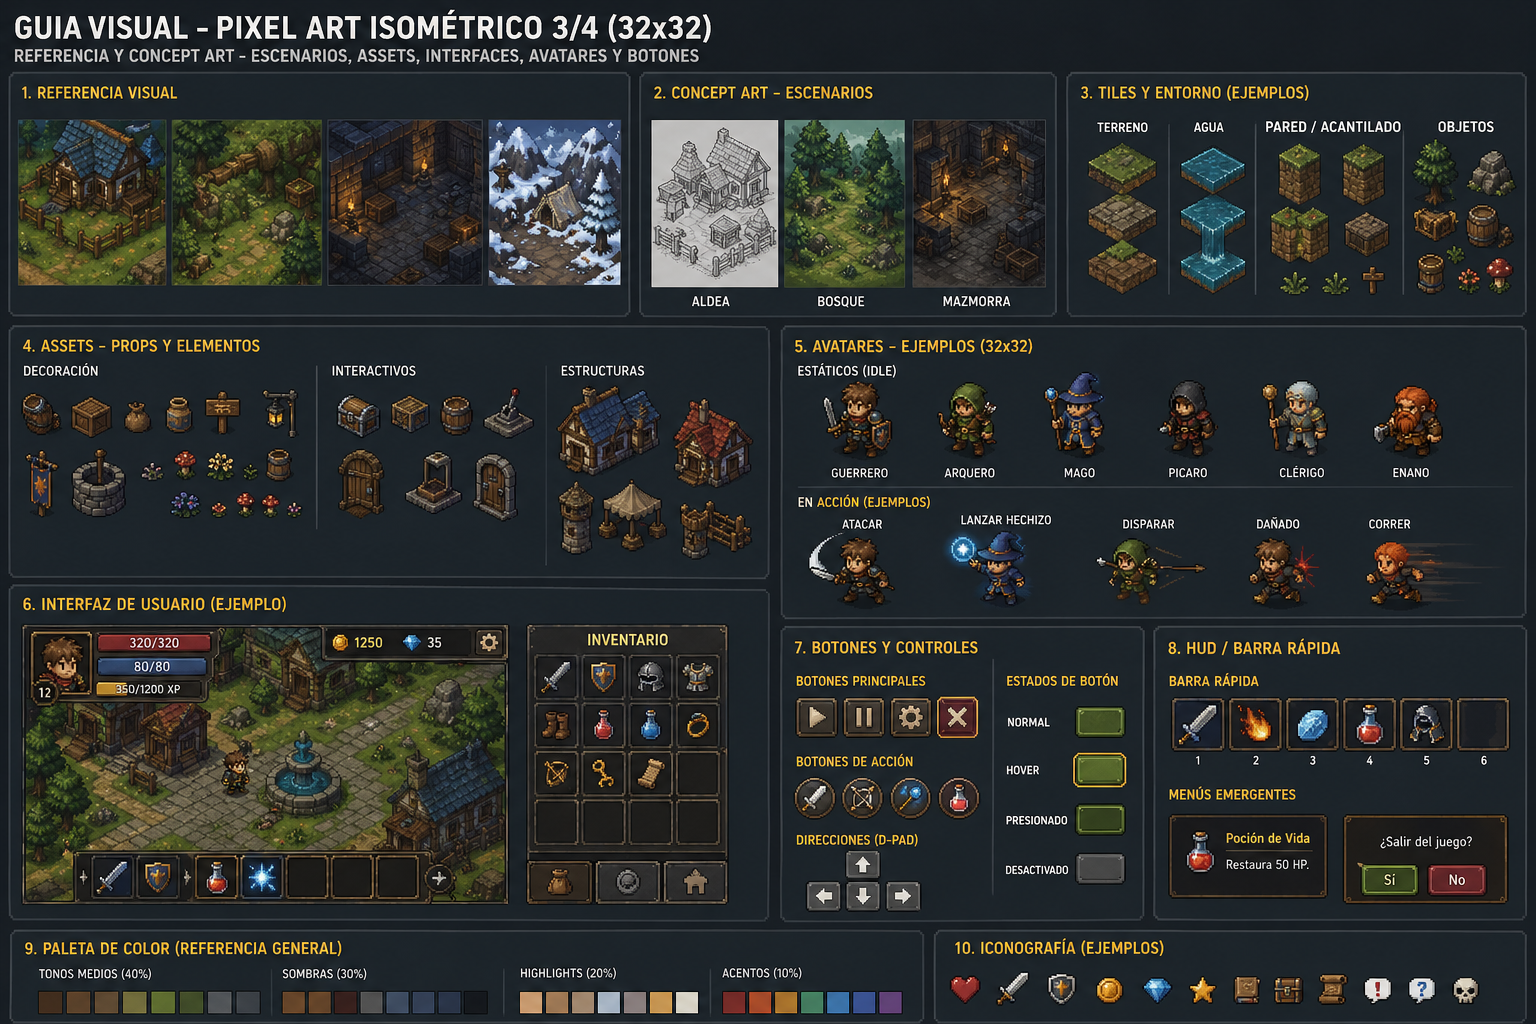
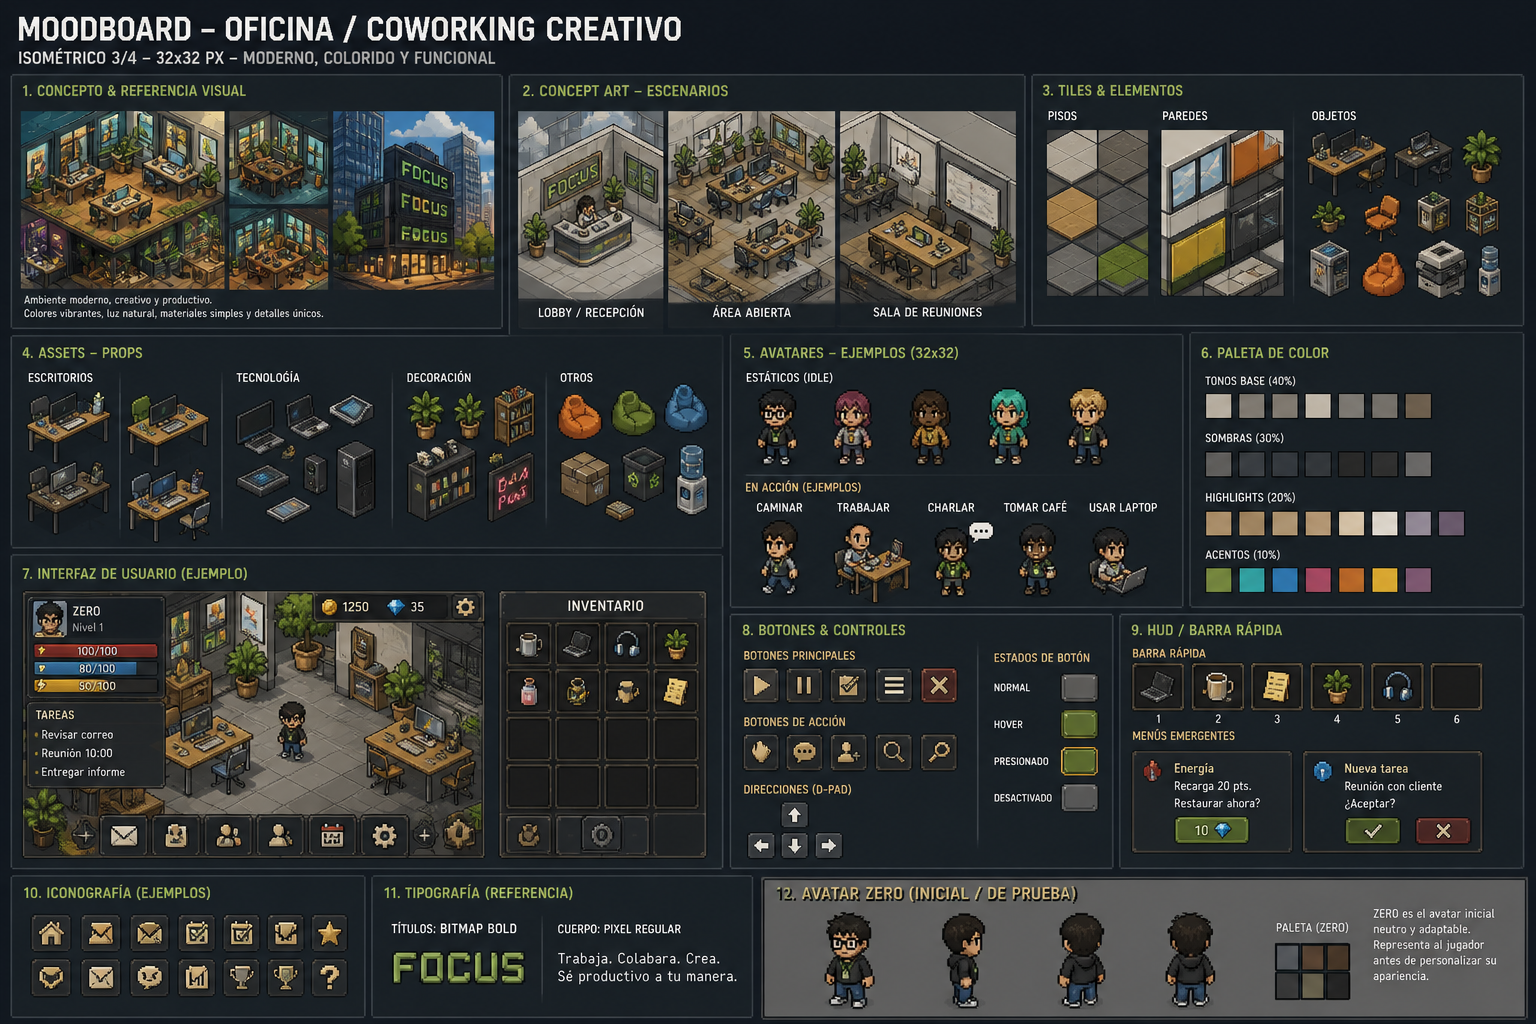
moodboard image updates
Added more images of the design of each area

diff --git a/art/environment_moodboard.md b/art/environment_moodboard.md
@@ -1,0 +1,76 @@
+# Environment Moodboards - "The Office"
+
+This document outlines the visual direction for the different zones in the project. All designs follow a **2:1 Isometric Pixel Art** style with vibrant, high-contrast colors and cel-shading.
+
+---
+
+## 🟦 OFFICE (Main Workspace)
+
+The core of the simulation. A balance between productivity and modern aesthetics.
+
+![OFFICE Moodboard](./office_moodboard.png)
+
+### Design Elements:
+- **Color Scheme**: Primary Blue (#3b82f6), Slate, and Cool Greys.
+- **Furniture**: White minimalist desks, dark ergonomic chairs.
+- **Props**: Multi-monitor setups, small potted succulents, cable grommets.
+- **Lighting**: Bright, top-left dominant light creating clean shadows.
+
+---
+
+## 🟪 FOCUS_ROOM (Concentration Zone)
+
+A minimalist 4x4 space designed for deep focus and zero distractions.
+
+### Design Guidelines:
+- **Color Scheme**: Deep Purple, Violet accents, and Charcoal.
+- **Wall Treatment**: Sound-absorbing hexagonal foam panels in shades of purple.
+- **Furniture**: A single high-tech standing desk.
+- **Atmosphere**: Low ambient light with a single focused task lamp (warm glow).
+- **Interactive**: Entering this zone could trigger a "Do Not Disturb" status in Discord.
+
+---
+
+## 🟧 CAFETERIA (Social Hub)
+
+The warm and inviting area for breaks and casual conversation.
+
+### Design Guidelines:
+- **Color Scheme**: Vibrant Orange (#f97316), Warm Wood tones, and Cream.
+- **Furniture**: Round café tables, stools, and a long counter.
+- **Props**: Espresso machine (interactive), snack vending machines, mugs left on tables.
+- **Lighting**: Warm, diffuse lighting to create a cozy "golden hour" vibe.
+
+---
+
+## 🟪 ARCADE (Minigame Zone)
+
+A playful, retro-futuristic space for community interaction.
+
+### Design Guidelines:
+- **Color Scheme**: Neon Pink (#ec4899), Electric Blue, and Deep Black.
+- **Atmosphere**: Dark room with glowing neon accents.
+- **Props**: Retro arcade cabinets, a pinball machine, and a neon "THE OFFICE" sign.
+- **Floor**: Checkered or dark carpet with glowing patterns.
+- **Interactive**: Arcade machines should be "usable" triggers for Discord minigames.
+
+---
+
+## 🟦 STUDIO (Creative / Presentation)
+
+The hub for teamwork, brainstorming, and formal presentations.
+
+### Design Guidelines:
+- **Color Scheme**: Cyan (#06b6d4), White, and Light Grey.
+- **Wall Treatment**: Large interactive whiteboards and glass partitions.
+- **Furniture**: Modular tables that can be rearranged, a large presentation screen.
+- **Props**: Projector hanging from the ceiling, markers, sticky notes on walls.
+- **Lighting**: Flat, even professional studio lighting.
+
+---
+
+## Technical Specifications (Reminder)
+- **Perspective**: Isometric 2:1 (26.565° angle).
+- **Tile Size**: 32x32 pixels.
+- **Lighting**: Consistent top-left source across all rooms.
+- **Shadows**: Hard-edged (no gradients), following the 2:1 ratio.
